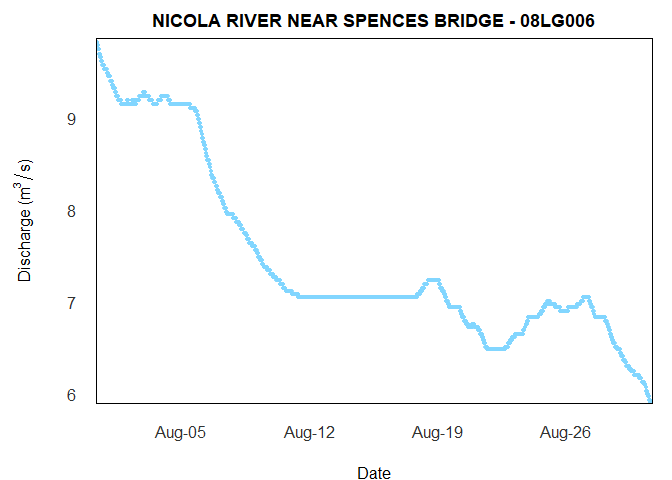
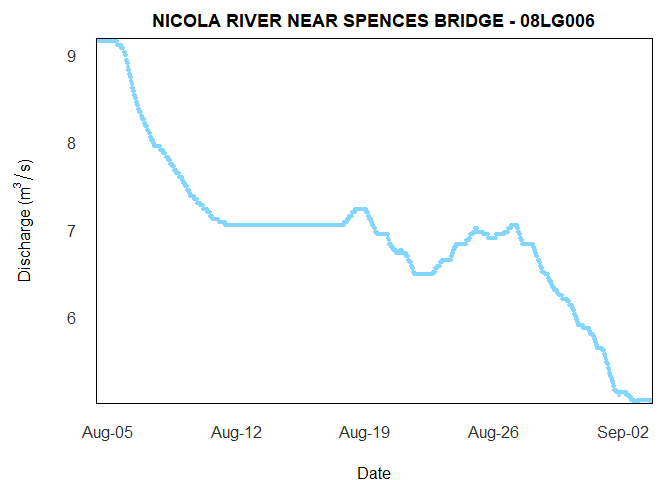
moving hex to lcn for pkgdown

diff --git a/README.md b/README.md
@@ -1,7 +1,7 @@
 
 <!-- README.md is generated from README.Rmd. Please edit that file -->
 
-# tidyhydat <img src="tools/readme/tidyhydat.png" align="right" />
+# tidyhydat <img src="man/figures/tidyhydat.png" align="right" />
 
 [![dev](https://assets.bcdevexchange.org/images/badges/delivery.svg)](https://github.com/BCDevExchange/assets/blob/master/README.md)
 [![License](https://img.shields.io/badge/License-Apache%202.0-blue.svg)](https://opensource.org/licenses/Apache-2.0)
@@ -217,22 +217,22 @@ easily select specific stations by supplying a station of interest:
 
 ``` r
 realtime_dd(station_number = "08LG006")
-#>   Queried on: 2019-08-30 18:50:14 (UTC)
-#>   Date range: 2019-07-31 to 2019-08-30 
-#> # A tibble: 17,460 x 8
+#>   Queried on: 2019-09-03 16:51:45 (UTC)
+#>   Date range: 2019-08-04 to 2019-09-03 
+#> # A tibble: 17,412 x 8
 #>    STATION_NUMBER PROV_TERR_STATE~ Date                Parameter Value
 #>    <chr>          <chr>            <dttm>              <chr>     <dbl>
-#>  1 08LG006        BC               2019-07-31 08:00:00 Flow       9.87
-#>  2 08LG006        BC               2019-07-31 08:05:00 Flow       9.87
-#>  3 08LG006        BC               2019-07-31 08:10:00 Flow       9.87
-#>  4 08LG006        BC               2019-07-31 08:15:00 Flow       9.87
-#>  5 08LG006        BC               2019-07-31 08:20:00 Flow       9.87
-#>  6 08LG006        BC               2019-07-31 08:25:00 Flow       9.87
-#>  7 08LG006        BC               2019-07-31 08:30:00 Flow       9.87
-#>  8 08LG006        BC               2019-07-31 08:35:00 Flow       9.87
-#>  9 08LG006        BC               2019-07-31 08:40:00 Flow       9.87
-#> 10 08LG006        BC               2019-07-31 08:45:00 Flow       9.83
-#> # ... with 17,450 more rows, and 3 more variables: Grade <chr>,
+#>  1 08LG006        BC               2019-08-04 08:00:00 Flow       9.19
+#>  2 08LG006        BC               2019-08-04 08:05:00 Flow       9.19
+#>  3 08LG006        BC               2019-08-04 08:10:00 Flow       9.19
+#>  4 08LG006        BC               2019-08-04 08:15:00 Flow       9.19
+#>  5 08LG006        BC               2019-08-04 08:20:00 Flow       9.19
+#>  6 08LG006        BC               2019-08-04 08:25:00 Flow       9.19
+#>  7 08LG006        BC               2019-08-04 08:30:00 Flow       9.19
+#>  8 08LG006        BC               2019-08-04 08:35:00 Flow       9.19
+#>  9 08LG006        BC               2019-08-04 08:40:00 Flow       9.19
+#> 10 08LG006        BC               2019-08-04 08:45:00 Flow       9.19
+#> # ... with 17,402 more rows, and 3 more variables: Grade <chr>,
 #> #   Symbol <chr>, Code <chr>
 ```
 
